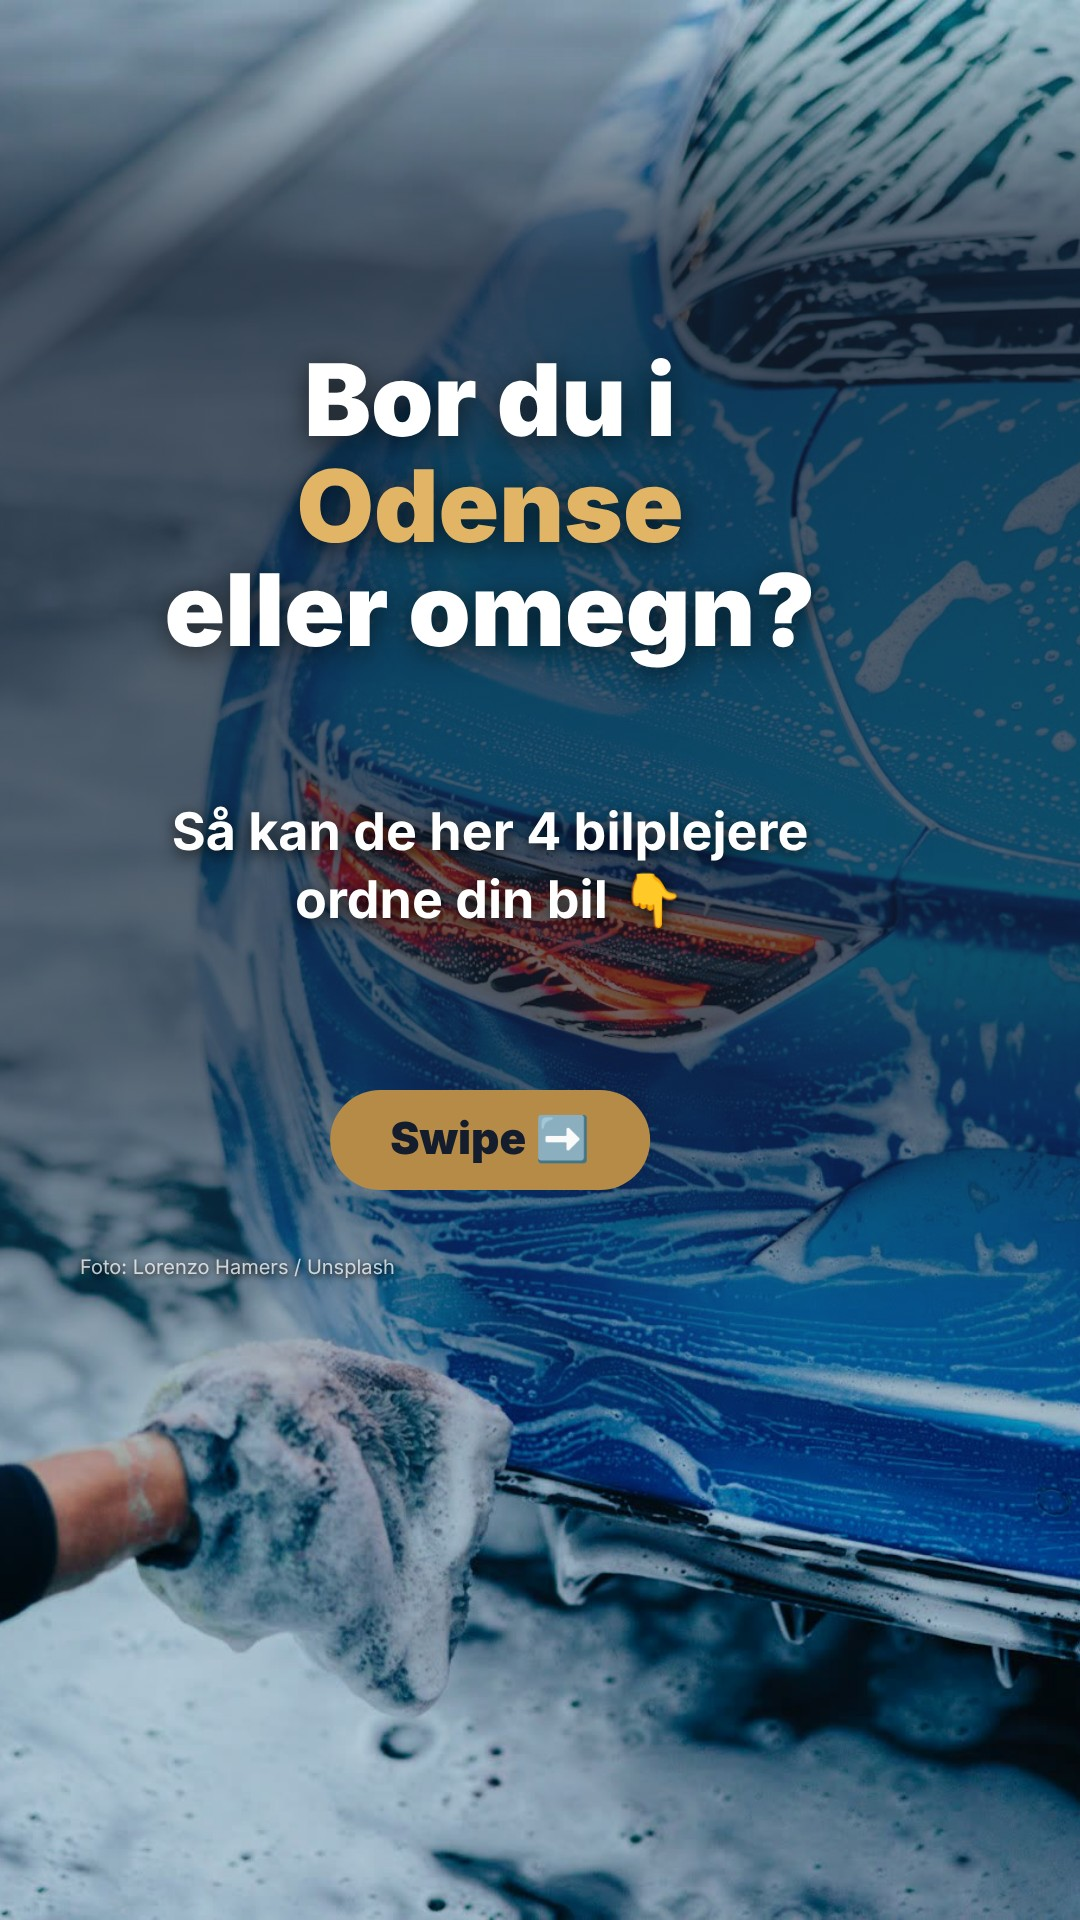
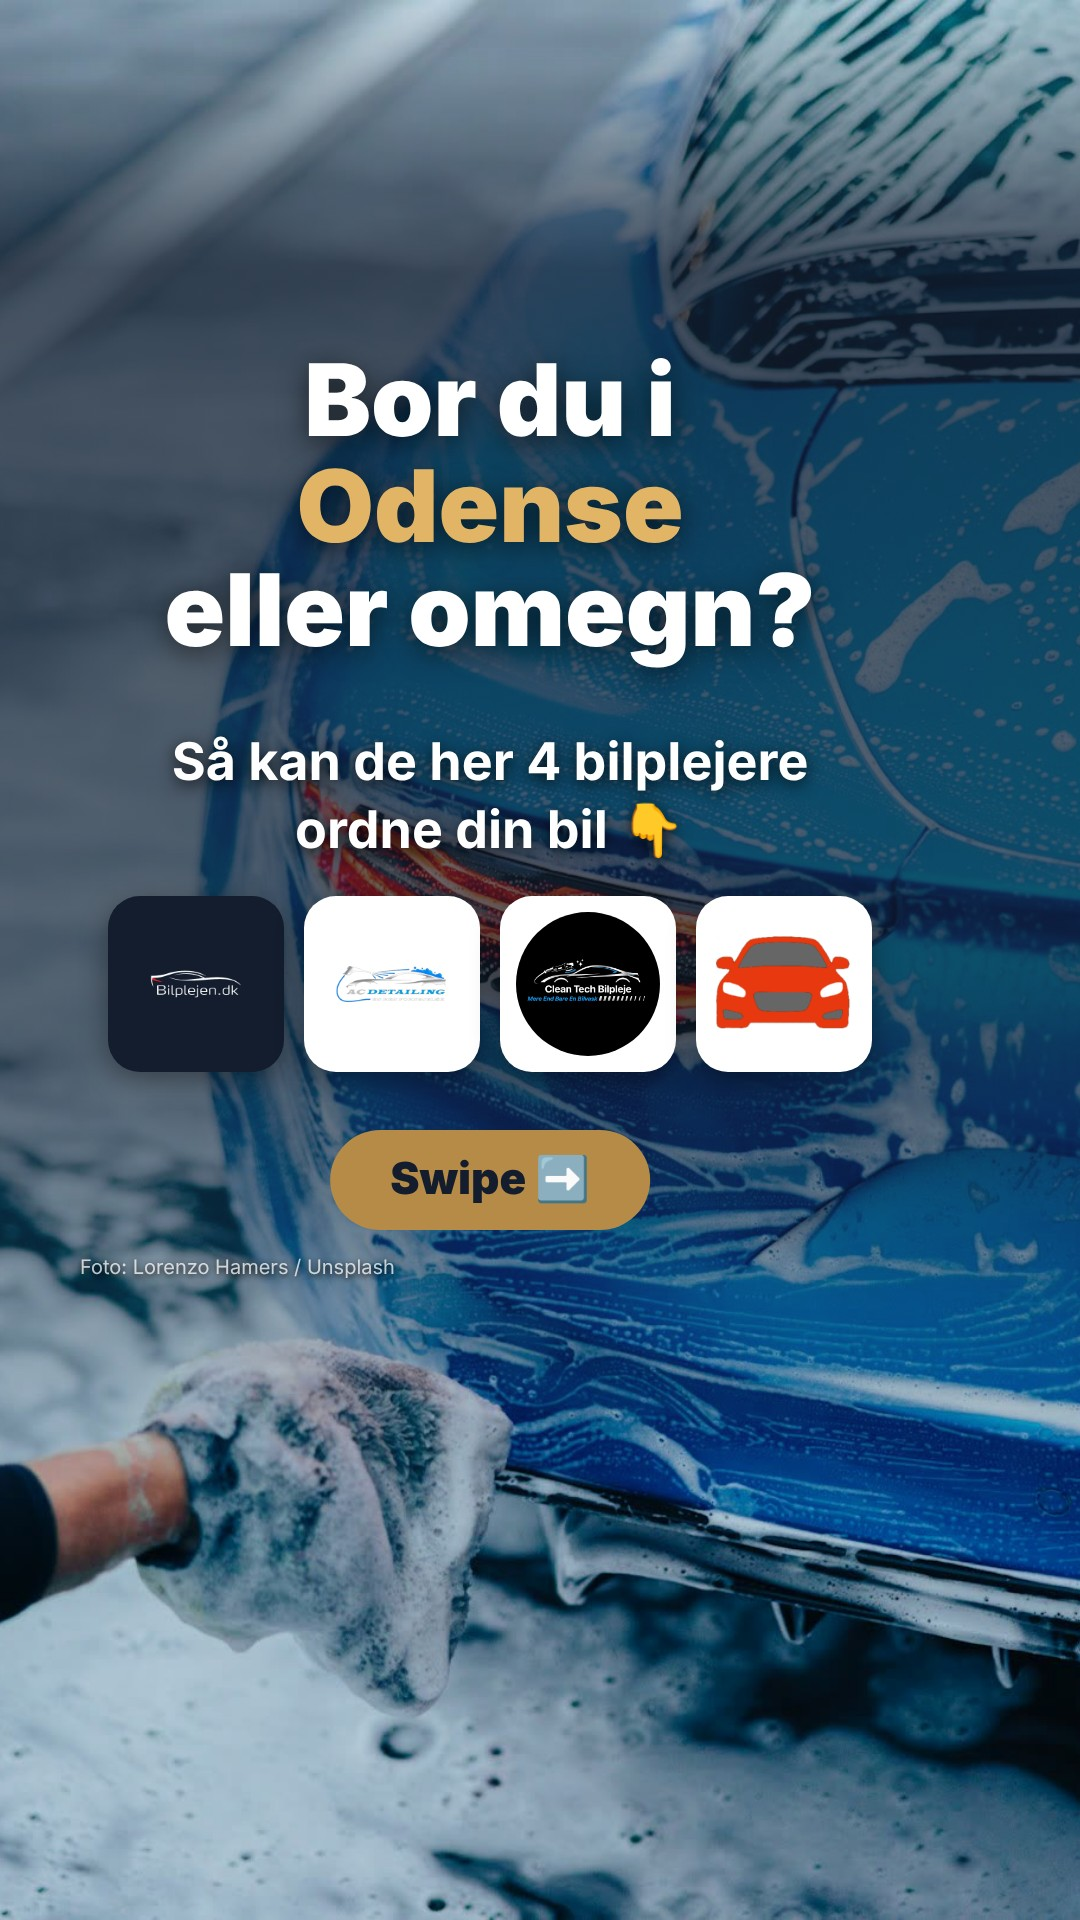
By-karruseller: små logoer på forsiden (Daniels ønske)
Claude-Session: https://claude.ai/code/session_01KzghKCSNuvU1eNVXodR6pu

Changed region(s): [[0.0917, 0.375, 0.825, 0.6562]]

diff --git a/vaerktoej/lav_by_karrusel.py b/vaerktoej/lav_by_karrusel.py
@@ -19,8 +19,9 @@ CSS = '''*{margin:0;padding:0;box-sizing:border-box}html,body{width:540px;height
 .ov{position:absolute;inset:0;background:linear-gradient(180deg,rgba(19,29,46,0) 0,rgba(19,29,46,.72) 14%,rgba(19,29,46,.6) 55%,rgba(19,29,46,.15) 72%,rgba(19,29,46,0) 80%)}
 .q{position:absolute;top:175px;left:40px;right:90px;text-align:center;color:#fff;font-size:50px;font-weight:900;line-height:1.05;text-shadow:0 3px 14px rgba(0,0,0,.6)}
 .g{color:#E2B566}
-.a{position:absolute;top:400px;left:40px;right:90px;text-align:center;color:#fff;font-size:26px;font-weight:700;line-height:1.3;text-shadow:0 2px 8px rgba(0,0,0,.8)}
-.sw{position:absolute;top:545px;left:245px;transform:translateX(-50%);background:#B68B48;color:#131D2E;font-weight:900;font-size:22px;padding:12px 30px;border-radius:40px;white-space:nowrap}
+.a{position:absolute;top:365px;left:40px;right:90px;text-align:center;color:#fff;font-size:26px;font-weight:700;line-height:1.3;text-shadow:0 2px 8px rgba(0,0,0,.8)}
+.sw{position:absolute;top:565px;left:245px;transform:translateX(-50%);background:#B68B48;color:#131D2E;font-weight:900;font-size:22px;padding:12px 30px;border-radius:40px;white-space:nowrap}
+.logos{position:absolute;top:448px;left:40px;right:90px;display:flex;justify-content:center;gap:10px}.logos div{width:88px;height:88px;border-radius:16px;background:#fff;display:flex;align-items:center;justify-content:center;padding:8px;box-shadow:0 4px 14px rgba(0,0,0,.35)}.logos img{max-width:100%;max-height:100%;object-fit:contain}.logos img.rund{width:72px;height:72px;border-radius:50%;object-fit:cover}
 .cr{position:absolute;left:40px;top:628px;font-size:10px;color:rgba(255,255,255,.75);text-shadow:0 1px 3px #000}
 .light{position:absolute;inset:0;background:#F4F5F7;background-image:linear-gradient(#e3e6eb 1px,transparent 1px),linear-gradient(90deg,#e3e6eb 1px,transparent 1px);background-size:36px 36px}
 .top{position:absolute;top:150px;left:40px;right:90px;text-align:center;font-size:15px;letter-spacing:4px;font-weight:900;color:#B68B48}
@@ -38,9 +39,12 @@ CSS = '''*{margin:0;padding:0;box-sizing:border-box}html,body{width:540px;height
 .btn{position:absolute;top:505px;left:245px;transform:translateX(-50%);background:#B68B48;color:#131D2E;font-weight:800;font-size:23px;padding:13px 34px;border-radius:40px;white-space:nowrap}'''
 pages = []
 shutil.copy(os.path.join(ROOT, spec['foto']), f'{work}/hook.jpg')
+for i, b in enumerate(bp):
+    ext = os.path.splitext(b['logo'])[1]; shutil.copy(os.path.join(ROOT, b['logo']), f'{work}/l{i}{ext}')
+logos = ''.join(f'''<div style="background:{b.get('kort_bg','#fff')}"><img{' class="rund"' if b.get('foto_logo') else ''} src="l{i}{os.path.splitext(b['logo'])[1]}"></div>''' for i, b in enumerate(bp))
 pages.append(f'''<div class="bg" style="background-image:url(hook.jpg)"></div><div class="ov"></div>
 <div class="q">Bor du i<br><span class="g">{e(by)}</span><br>eller omegn?</div>
-<div class="a">Så kan de her {len(bp)} bilplejere<br>ordne din bil 👇</div><div class="sw">Swipe ➡</div>
+<div class="a">Så kan de her {len(bp)} bilplejere<br>ordne din bil 👇</div><div class="logos">{logos}</div><div class="sw">Swipe ➡</div>
 <div class="cr">Foto: {e(spec.get("kredit",""))} / Unsplash</div>''')
 for i, b in enumerate(bp):
     ext = os.path.splitext(b['logo'])[1]; shutil.copy(os.path.join(ROOT, b['logo']), f'{work}/l{i}{ext}')
